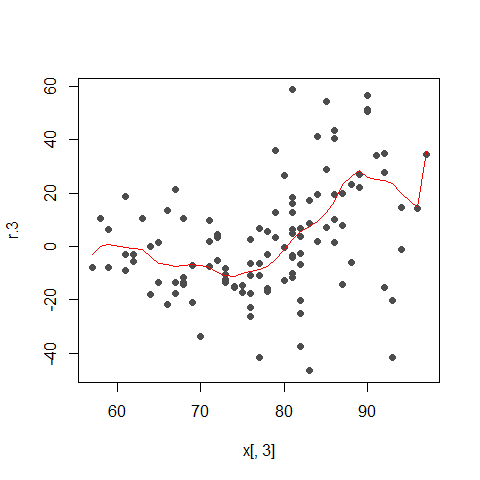
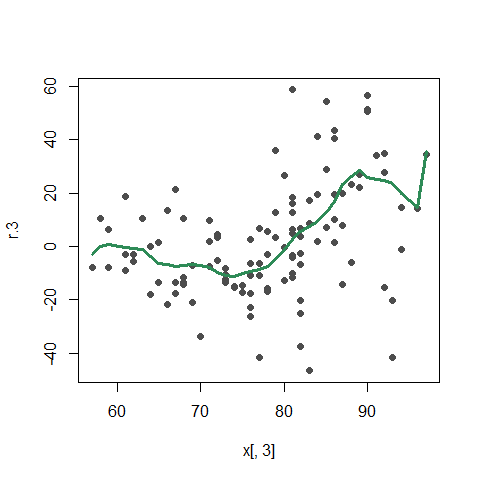
more text, better plots

diff --git a/Example-backfitting.md b/Example-backfitting.md
@@ -1,7 +1,7 @@
 STAT547O - Backfitting notes
 ================
 Matias Salibian-Barrera
-2019-11-08
+2019-11-09
 
 #### LICENSE
 
@@ -56,13 +56,15 @@ We now compute *partial residuals* without using `f.hat.1`:
 r.1 <- y - alpha.hat - f.hat.2 - f.hat.3
 ```
 
-We smooth this vector of residuals as a function of `x1`
+We smooth this vector of residuals as a function of `x1`. We will use a
+bandwidth of `span = .65`, this was chosen subjectively, essentially
+just by “eyeballing” the plots. It seems to work fine.
 
 ``` r
 oo <- order(x[,1])
 f.hat.1 <- fitted( loess(r.1 ~ x[,1], span=.65, family='gaussian') ) 
 plot(r.1 ~ x[,1], type='p', pch=19, col='gray30')
-lines(f.hat.1[oo] ~ x[oo,1], col='red')
+lines(f.hat.1[oo] ~ x[oo,1], col='blue', lwd=3)
 ```
 
 ![](Example-backfitting_files/figure-gfm/smooth.1-1.png)<!-- -->
@@ -75,7 +77,7 @@ oo2 <- order(x[,2])
 r.2 <- y - alpha.hat - f.hat.1 - f.hat.3
 f.hat.2 <- fitted( loess(r.2 ~ x[,2], span=.65, family='gaussian') ) 
 plot(r.2 ~ x[,2], type='p', pch=19, col='gray30')
-lines(f.hat.2[oo2] ~ x[oo2,2], col='red')
+lines(f.hat.2[oo2] ~ x[oo2,2], col='blue', lwd=3)
 ```
 
 ![](Example-backfitting_files/figure-gfm/smooth.2-1.png)<!-- -->
@@ -87,12 +89,15 @@ oo3 <- order(x[,3])
 r.3 <- y - alpha.hat - f.hat.1 - f.hat.2
 f.hat.3 <- fitted( loess(r.3 ~ x[,3], span=.65, family='gaussian') ) 
 plot(r.3 ~ x[,3], type='p', pch=19, col='gray30')
-lines(f.hat.3[oo3] ~ x[oo3,3], col='red')
+lines(f.hat.3[oo3] ~ x[oo3,3], col='blue', lwd=3)
 ```
 
 ![](Example-backfitting_files/figure-gfm/smooth.3-1.png)<!-- -->
 
-Iterate
+Now perform 15 iterations (why 15? just because I thought they would be
+sufficient to converge). Just in case, below we also print the
+approximated L2 norm of consecutive estimates, the square root of
+\[\sum_{j=1}^3 \| \hat{f}_j^{(k+1)} - \hat{f}_j^{(k)} \|^2\].
 
 ``` r
 f.hat.3 <- f.hat.3 - mean(f.hat.3)
@@ -142,31 +147,41 @@ for(i in 1:15) {
     ## [1] 8.061999e-06
     ## [1] 3.252211e-06
 
-``` r
-plot(r.1 ~ x[,1], type='p', pch=19, col='gray30')
-lines(f.hat.1[oo] ~ x[oo,1], col='red')
-lines(f.hat.1.orig[oo] ~ x[oo,1], col='blue')
-```
-
-![](Example-backfitting_files/figure-gfm/iterate-1.png)<!-- -->
+Now plot the “final” estimates, and compare them with the initial ones:
 
 ``` r
-plot(r.2 ~ x[,2], type='p', pch=19, col='gray30')
-lines(f.hat.2[oo2] ~ x[oo2,2], col='red')
-lines(f.hat.2.orig[oo2] ~ x[oo2,2], col='blue')
+plot(r.1 ~ x[,1], type='p', pch=19, col='gray30', main='L2')
+lines(f.hat.1[oo] ~ x[oo,1], col='red', lwd=3)
+lines(f.hat.1.orig[oo] ~ x[oo,1], col='blue', lwd=3)
+legend('topleft', legend=c('Start', 'End'), lwd=3, col=c('blue', 'red'))
 ```
 
-![](Example-backfitting_files/figure-gfm/iterate-2.png)<!-- -->
+![](Example-backfitting_files/figure-gfm/iterate.show-1.png)<!-- -->
 
 ``` r
-plot(r.3 ~ x[,3], type='p', pch=19, col='gray30')
-lines(f.hat.3[oo3] ~ x[oo3,3], col='red')
-lines(f.hat.3.orig[oo3] ~ x[oo3,3], col='blue')
+plot(r.2 ~ x[,2], type='p', pch=19, col='gray30', main='L2')
+lines(f.hat.2[oo2] ~ x[oo2,2], col='red', lwd=3)
+lines(f.hat.2.orig[oo2] ~ x[oo2,2], col='blue', lwd=3)
+legend('topright', legend=c('Start', 'End'), lwd=3, col=c('blue', 'red'))
 ```
 
-![](Example-backfitting_files/figure-gfm/iterate-3.png)<!-- -->
+![](Example-backfitting_files/figure-gfm/iterate.show-2.png)<!-- -->
+
+``` r
+plot(r.3 ~ x[,3], type='p', pch=19, col='gray30', main='L2')
+lines(f.hat.3[oo3] ~ x[oo3,3], col='red', lwd=3)
+lines(f.hat.3.orig[oo3] ~ x[oo3,3], col='blue', lwd=3)
+legend('topleft', legend=c('Start', 'End'), lwd=3, col=c('blue', 'red'))
+```
+
+![](Example-backfitting_files/figure-gfm/iterate.show-3.png)<!-- -->
 
 #### Sanity check
+
+To verify that our algorithm produces reasonable results, we compare our
+“home made” estimates with those computed with `gam::gam()` (both
+graphically and we look at their values). They are of course not
+identical, but reassuringly close.
 
 ``` r
 library(gam)
@@ -177,24 +192,27 @@ gg <- predict(gam(Ozone ~ lo(Solar.R, span=.65) +
               type='terms')
 
 plot(r.1 ~ x[,1], type='p', pch=19, col='gray30')
-lines(f.hat.1[oo] ~ x[oo,1], col='red')
-lines(gg[oo,1] ~ x[oo,1], col='blue')
+lines(f.hat.1[oo] ~ x[oo,1], col='red', lwd=3)
+lines(gg[oo,1] ~ x[oo,1], col='blue', lwd=3)
+legend('topleft', legend=c('gam::gam', 'Home made'), lwd=3, col=c('blue', 'red'))
 ```
 
 ![](Example-backfitting_files/figure-gfm/trygam-1.png)<!-- -->
 
 ``` r
 plot(r.2 ~ x[,2], type='p', pch=19, col='gray30')
-lines(f.hat.2[oo2] ~ x[oo2,2], col='red')
-lines(gg[oo2,2] ~ x[oo2,2], col='blue')
+lines(f.hat.2[oo2] ~ x[oo2,2], col='red', lwd=3)
+lines(gg[oo2,2] ~ x[oo2,2], col='blue', lwd=3)
+legend('topright', legend=c('gam::gam', 'Home made'), lwd=3, col=c('blue', 'red'))
 ```
 
 ![](Example-backfitting_files/figure-gfm/trygam-2.png)<!-- -->
 
 ``` r
 plot(r.3 ~ x[,3], type='p', pch=19, col='gray30')
-lines(f.hat.3[oo3] ~ x[oo3,3], col='red')
-lines(gg[oo3,3] ~ x[oo3,3], col='blue')
+lines(f.hat.3[oo3] ~ x[oo3,3], col='red', lwd=3)
+lines(gg[oo3,3] ~ x[oo3,3], col='blue', lwd=3)
+legend('topleft', legend=c('gam::gam', 'Home made'), lwd=3, col=c('blue', 'red'))
 ```
 
 ![](Example-backfitting_files/figure-gfm/trygam-3.png)<!-- -->
@@ -203,19 +221,14 @@ lines(gg[oo3,3] ~ x[oo3,3], col='blue')
 f.hat.1.cl <- f.hat.1
 f.hat.2.cl <- f.hat.2
 f.hat.3.cl <- f.hat.3
-
-# head(cbind(f.hat.1, gg[,1]))
-# head(cbind(f.hat.2, gg[,2]))
-# head(cbind(f.hat.3, gg[,3]))
-# 
-# plot(f.hat.1, gg[,1]); abline(0,1)
-# plot(f.hat.2, gg[,2]); abline(0,1)
-# plot(f.hat.3, gg[,3]); abline(0,1)
 ```
 
 ### Robust BF
 
-For the robust one. Estimate sigma first (and keep it fixed)
+We now compute robust estimators.  
+We first estimate `sigma` (the scale of the errors), and we will keep it
+fixed. The function `RBF::backf.rob` does this, using a local median fit
+to obtain residuals.
 
 ``` r
 library(RBF)
@@ -223,21 +236,30 @@ bandw <- c(137, 9, 8)
 si.hat <- backf.rob(Xp=x, yp=y, windows=bandw)$sigma.hat
 ```
 
-  - Need a function f(x\_0, x, y, sigma, cc, h) that returns the
-    solution `a` to
+The bandwidths above were computed using robust cross validation and
+`RBF::backf.rob`. We now need a robust alternative to `loess`
+(specifically, of `predict( loess(...) )`). We will write our own
+function to do this. The following function `localM` computes a local M
+estimator using a polynomial of 2nd degree. Formally, given the data (in
+the vectors `x` and `y`), the bandwidth `h`, an estimate of the residual
+scale `sigma`, and the choice of tuning parameters for `rho` (in this
+case we use Tukey’s bisquare function), it computes the solution `a` to
 
-<!-- end list -->
+    mean( \rhoprime( (y-a)/sigma), cc=cc) * kernel((x-x_0)/h) = 0
+
+By default, `cc` is chosen using the 95% efficiency criterion for linear
+regression with Gaussian errors. There are two additional parameters to
+control the convergence of the weighted least squares iterations. The
+algorithm is initialized using a (kernel)-weighted (“local”) L1
+estimator of regression (also using a 2nd degree polynomial).
 
 ``` r
-# mean( \rhoprime( (y-a)/sigma), cc=cc) * kernel((x-x_0)/h) = 0
 localM <- function(x0, x, y, sigma, 
                    cc=RobStatTM::lmrobdet.control(family='bisquare',
-                                                         bb=.5)$tuning.psi, 
+                                                  efficiency=.95)$tuning.psi, 
                    h, tol=1e-5, max.it=100) {
   ker.we <- RBF::k.epan((x - x0)/h)
-  ii <- which( abs(x-x0) < h) 
-  a0 <- median(y[ii])
-  beta <- coef( quantreg::rq(y ~ I(x-x0) + I((x-x0)^2), subset=ii) )
+  beta <- coef( quantreg::rq(y ~ I(x-x0) + I((x-x0)^2), weights=ker.we))
   n <- length(y)
   zz <- cbind(rep(1,n), x - x0, (x-x0)^2)
   err <- 10*tol
@@ -256,6 +278,14 @@ localM <- function(x0, x, y, sigma,
 }
 ```
 
+Using this function, we run the first step of the backfitting algorithm,
+exactly as before, but replacing `loess` with `localM`. Note that in
+this case we need to loop through the values of each explanatory
+variable in the training set (`loess` does this internally when we call
+`predict`). We could do something similar using `RBF::backf.rob`, but it
+would not be as  
+“educational” as doing it by hand.
+
 ``` r
 alpha.hat <- RobStatTM::locScaleM(x=y, psi='bisquare')$mu
 n <- length(y)
@@ -267,7 +297,7 @@ for(i in 1:n)
   f.hat.1[i] <- localM(x0=x[i,1], x=x[,1], y=r.1, sigma=si.hat, h=bandw[1])
 
 plot(r.1 ~ x[,1], type='p', pch=19, col='gray30')
-lines(f.hat.1[oo] ~ x[oo,1], col='red')
+lines(f.hat.1[oo] ~ x[oo,1], col='seagreen', lwd=3)
 ```
 
 ![](Example-backfitting_files/figure-gfm/robust.onestep-1.png)<!-- -->
@@ -279,7 +309,7 @@ for(i in 1:n)
   f.hat.2[i] <- localM(x0=x[i,2], x=x[,2], y=r.2, sigma=si.hat, h=bandw[2])
 
 plot(r.2 ~ x[,2], type='p', pch=19, col='gray30')
-lines(f.hat.2[oo2] ~ x[oo2,2], col='red')
+lines(f.hat.2[oo2] ~ x[oo2,2], col='seagreen', lwd=3)
 ```
 
 ![](Example-backfitting_files/figure-gfm/robust.onestep-2.png)<!-- -->
@@ -290,7 +320,7 @@ r.3 <- y - alpha.hat - f.hat.1 - f.hat.2
 for(i in 1:n) 
   f.hat.3[i] <- localM(x0=x[i,3], x=x[,3], y=r.3, sigma=si.hat, h=bandw[3])
 plot(r.3 ~ x[,3], type='p', pch=19, col='gray30')
-lines(f.hat.3[oo3] ~ x[oo3,3], col='red')
+lines(f.hat.3[oo3] ~ x[oo3,3], col='seagreen', lwd=3)
 ```
 
 ![](Example-backfitting_files/figure-gfm/robust.onestep-3.png)<!-- -->
@@ -337,21 +367,21 @@ for(i in 1:15) {
 }
 ```
 
-    ## [1] 11.47695
-    ## [1] 4.377791
-    ## [1] 2.005231
-    ## [1] 0.8529065
-    ## [1] 0.3440642
-    ## [1] 0.1327937
-    ## [1] 0.04908799
-    ## [1] 0.0173641
-    ## [1] 0.005869713
-    ## [1] 0.001895551
-    ## [1] 0.0005904193
-    ## [1] 0.0001858384
-    ## [1] 6.585863e-05
-    ## [1] 2.773783e-05
-    ## [1] 1.261046e-05
+    ## [1] 11.47662
+    ## [1] 4.37787
+    ## [1] 2.005267
+    ## [1] 0.8529219
+    ## [1] 0.3440702
+    ## [1] 0.1327956
+    ## [1] 0.049089
+    ## [1] 0.01736437
+    ## [1] 0.005869899
+    ## [1] 0.001895617
+    ## [1] 0.0005904411
+    ## [1] 0.0001858448
+    ## [1] 6.586016e-05
+    ## [1] 2.773819e-05
+    ## [1] 1.26106e-05
 
 Show
 
